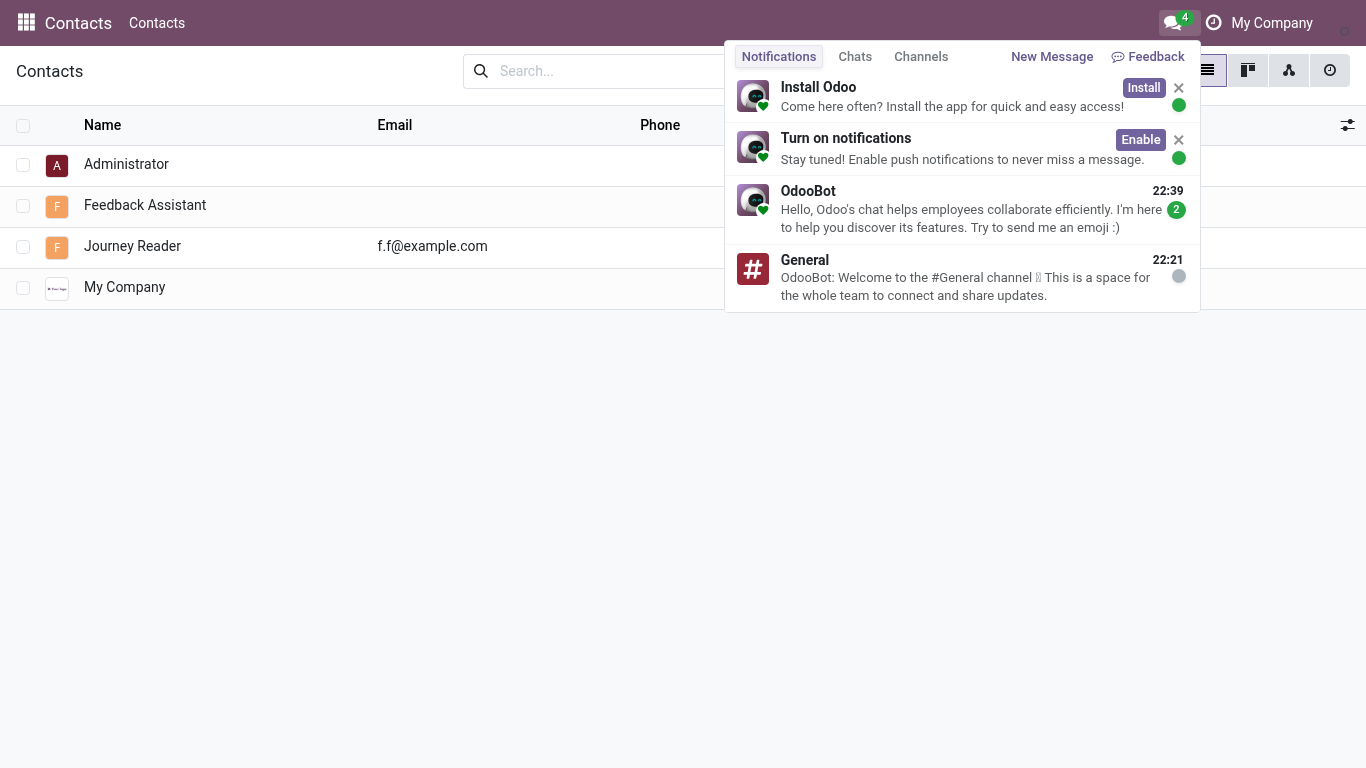
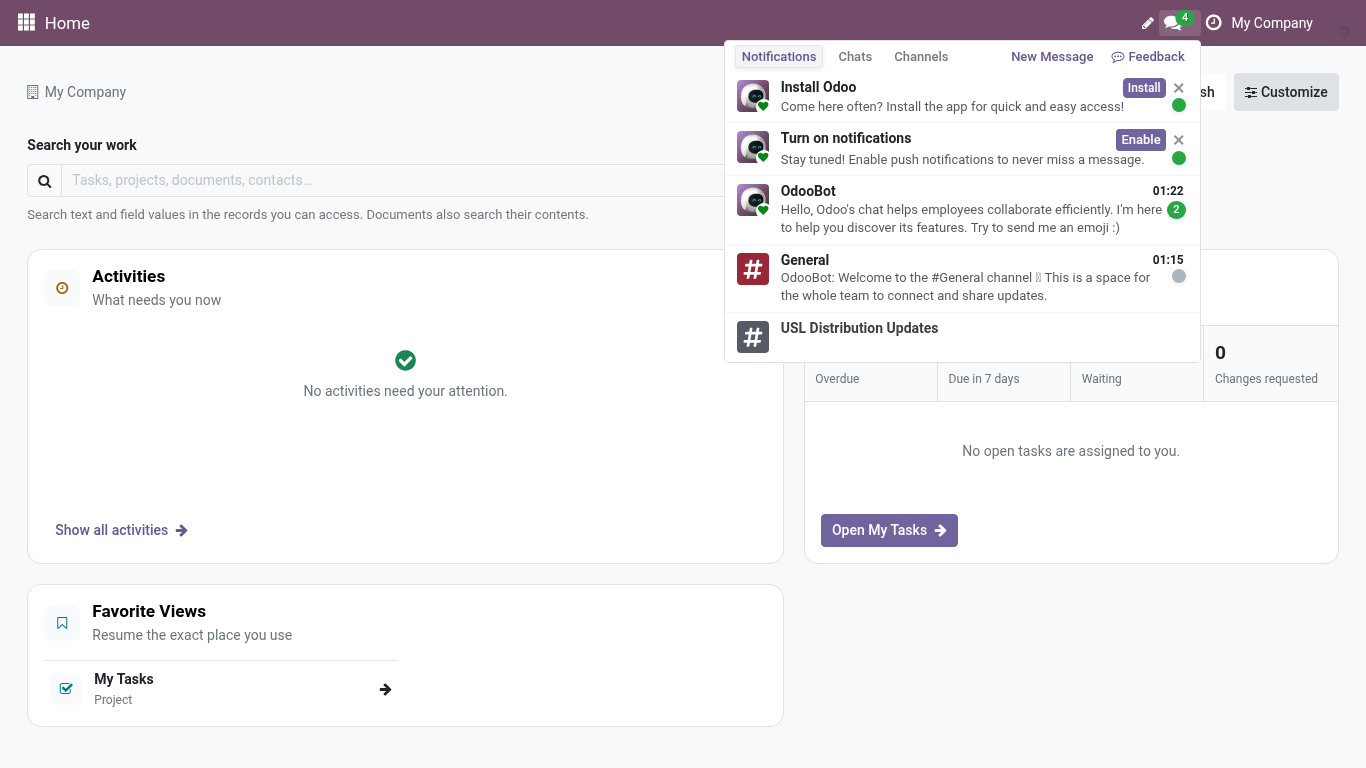
fix(docs): commit the journey captures the qualification run produces and run journeys on the product set by default
The staging push on abdf3caae545 failed its database job on 'Generated documentation check: FAIL': the feedback and the immediate-settlement pages differed from what the journeys produce in CI. The committed captures came from a local database holding only the five journey modules and their dependencies; the qualification database holds the whole product set, which draws the USL Home dashboard behind the feedback window and the Documents smart button and the Unit column on the vendor bill. Nine of the eleven journeys matched to the pixel, so the environment is otherwise identical.

The pages and screenshots of those two journeys are re-rendered from the records the failed run uploaded (artifact docs-evidence-42544307734), so they are what CI itself captured. make docs-journeys now installs the product module set by default, as scripts/product-modules prints it, and the README and the authoring skill say that only such a run yields captures CI accepts; MODULE=name stays for a quick look.

Validation:
- scripts/docs generate check against the run's records: PASS; scripts/docs check: PASS
- python3 -m unittest discover -s scripts/tests: OK

AI-generated commit

diff --git a/docs/users/how-to/send-feedback-from-any-page.md b/docs/users/how-to/send-feedback-from-any-page.md
@@ -12,10 +12,10 @@ journey: send-feedback-from-any-page
 tour: usl_feedback_desktop_journey
 source:
   - custom-addons/usl_feedback/tests/test_feedback_journeys.py
-screenshot_01-open_drawer_png: de5104017e8ca04ee9c37bb6ecdc904c07359dc2e2a2b3d37521f1f593092ef4
-screenshot_02-conversation_png: e0f5359fbb0539167df171ca61d246a31cb5aa8a5b282837d792a22c57d181d8
-screenshot_03-chatter_png: 4a0b4dad78de8b853d185e1d1f1a893dfc8523c699c4a5849f54f1e490bd47bc
-screenshot_04-recent_list_png: 3916564a34e6b7f610981552aaa6a456b4bcbda649c5849eba4e3ed7b367e237
+screenshot_01-open_drawer_png: a7ec22c269b49b94221e44e1a44a35692e16df0d67eebc86a0da9c23558888e1
+screenshot_02-conversation_png: 0d2fe16506148c5cbbfa5f2e66bdfbe89e00133ec61f850523dfe80c85efc7fd
+screenshot_03-chatter_png: ec8fc888e4f3ad6072f95bf38e198fb516d9c7babfd0d50b9f783b907ff25eb2
+screenshot_04-recent_list_png: 1b25fc5ca76425057d7639207ce9d0c3a888e01a1aef5b547b51101da639ca90
 generated: true
 ---
 

diff --git a/.agents/skills/usl-docs-authoring/SKILL.md b/.agents/skills/usl-docs-authoring/SKILL.md
@@ -49,8 +49,10 @@ steps is a how-to that will go stale.
 4. Run `make docs MODULE=<module>` in the isolated stack. It runs the journey
    inside the test container (`make docs-journeys`), writes the page and its
    screenshots (`make docs-render`). Commit the page, the screenshots, the
-   sidecar and the tour together; there is no index to refresh. Without
-   `MODULE`, every module that has journeys runs.
+   sidecar and the tour together; there is no index to refresh. Commit the
+   captures of a run without `MODULE`: it installs the whole product set, as
+   the qualification run does, and a smaller database draws other smart
+   buttons, columns and home screens that CI then rejects as changed.
 5. Prove it: `make docs-check` passes; edit one step's `text`, run
    `scripts/docs generate check --records artifacts/usl-docs` and watch it
    fail; regenerate.

diff --git a/docs/README.md b/docs/README.md
@@ -53,7 +53,7 @@ that add pages never touch the same file.
 
 ```bash
 make docs            # run the journeys in the test container, then render pages and screenshots
-make docs-journeys   # only run the journeys (MODULE=name limits the installed modules); records land in artifacts/usl-docs
+make docs-journeys   # only run the journeys on the product module set, as the qualification run does (MODULE=name narrows it for a quick look, but only the full set yields captures CI accepts); records land in artifacts/usl-docs
 make docs-render     # only render from recorded journeys (scripts/docs generate render)
 make docs-reference  # extract the registry from the action-risk closure and render reference/generated/
 make docs-mcp        # render reference/mcp-tools.md from the pinned odoo-mcp commit (ODOO_MCP_REPOSITORY=../odoo-mcp)

diff --git a/docs/users/how-to/settle-a-foreign-bill-at-the-payment-rate.md b/docs/users/how-to/settle-a-foreign-bill-at-the-payment-rate.md
@@ -13,9 +13,9 @@ journey: settle-a-foreign-bill-at-the-payment-rate
 tour: usl_immediate_settlement
 source:
   - custom-addons/usl_accounting/tests/test_accounting_journeys.py
-screenshot_01-actions_png: 430756c591104b2683ac59285aa45a6689dfbc3be8fe9e01fbee03cb5814a775
-screenshot_02-trace_png: 33527bd84d55f761c26180fd07149f0ccbc47d26f3278dd309f2edd0a95eb59f
-screenshot_03-detail_png: 151ea1c085afb785bbb2a507e5093f35a562a50058f9b3b7eb70e5c6cce40894
+screenshot_01-actions_png: 7792f5af16285474a140b59520dbd5aff08699bd8e6a3d22ce88665fc9b3d272
+screenshot_02-trace_png: 6a5d063d2092af0fe86f94519873e75a6281e59f2404d93813a81a9775b78372
+screenshot_03-detail_png: d0c38bb8d29ab088e06b31fca04b69b22afb162b0f9de19840c5077baf1c3a6d
 generated: true
 ---
 
